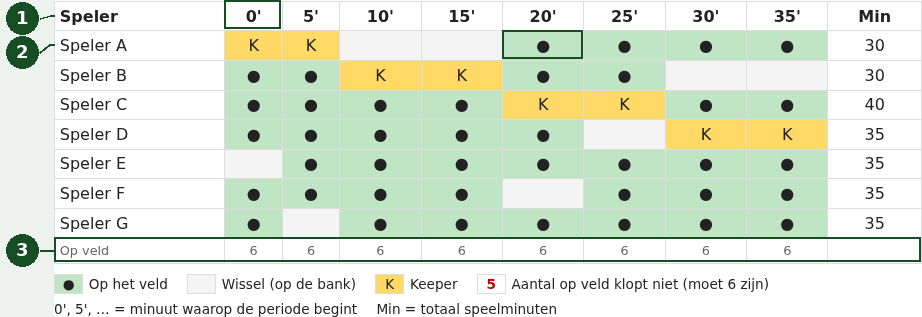
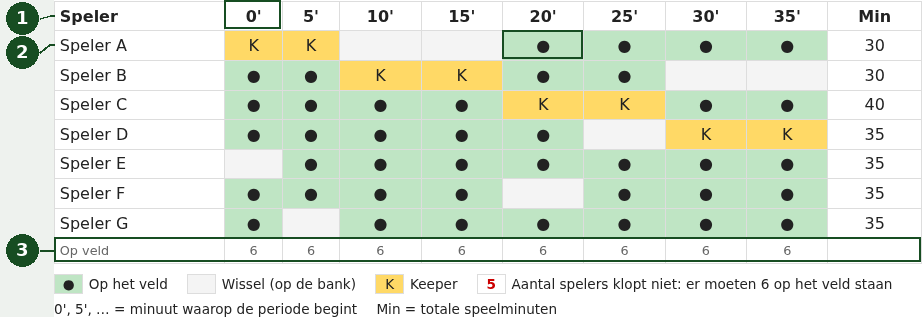
docs: humanize Dutch app and manual copy

Changed region(s): [[0.6074, 0.8801, 0.9718, 0.9369], [0.4859, 0.9653, 0.5163, 0.9937]]

diff --git a/uitleg.html b/uitleg.html
@@ -3,7 +3,7 @@
 <head>
 <meta charset="utf-8">
 <meta name="viewport" content="width=device-width, initial-scale=1">
-<title>Uitleg – Wisselschema</title>
+<title>Uitleg: Wisselschema</title>
 <style>
   body { font-family: system-ui, sans-serif; max-width: 900px; margin: 0 auto; padding: 1rem; background: #eef2ee; color: #222; line-height: 1.6; overflow-wrap: anywhere }
   h1 { font-size: 1.4rem } h2 { font-size: 1.1rem; margin-top: 0 }
@@ -29,24 +29,24 @@
 </header>
 <main>
 <div class="intro">
-<p>Maak een team, voeg spelers toe en bereid een wedstrijd voor. Hieronder zie je de echte app met uitsluitend verzonnen namen: <strong>Voorbeeldteam JO9, Speler A t/m H en Voorbeeldclub</strong>. De datum is een voorbeeld, geen geplande echte wedstrijd.</p>
-<p>De nummers in de afbeeldingen horen bij de aanwijzingen ernaast. Op een telefoon lees je eerst de tekst. <strong>Klik of tik op een afbeelding om die groter te openen</strong>; gebruik daarna de terugknop van je browser om verder te lezen.</p>
+<p>Maak een team, voeg spelers toe en bereid een wedstrijd voor. De afbeeldingen tonen de app met verzonnen namen: Voorbeeldteam JO9, Speler A t/m H en Voorbeeldclub. Ook de wedstrijddatum is een voorbeeld.</p>
+<p>De nummers in de afbeeldingen horen bij de stappen in de tekst. Lees op een telefoon eerst de tekst. Klik of tik op een afbeelding om die groter te openen. Met de terugknop van je browser kom je terug bij de uitleg.</p>
 <nav class="contents" aria-label="Stappen in deze uitleg">
 <a href="#stap-1">1. Team</a><a href="#stap-2">2. Spelers</a><a href="#stap-3">3. Wedstrijd</a><a href="#stap-4">4. Schema</a><a href="#stap-5">5. Opstelling</a><a href="#stap-6">6. Totalen en PDF</a><a href="#stap-7">7. Back-up en privacy</a>
 </nav>
 </div>
 <aside class="intro warning" aria-labelledby="bewaren">
-<h2 id="bewaren">Belangrijk: zelf bewaren en beschermen</h2>
+<h2 id="bewaren">Bewaar en bescherm je gegevens</h2>
 <p>Je gegevens staan in deze browser, niet in een account. <strong>Download regelmatig een back-up</strong>, zeker vóór je browsergegevens wist of een back-up terugzet. Terugzetten <strong>vervangt alle huidige gegevens</strong>. Lees <a href="#stap-7">stap 7 over opslag, privacy en back-ups</a> voordat je echte namen invoert.</p>
 </aside>
 <section id="stap-1">
 <h2>1. Maak een team en kies de categorie</h2>
 <ol>
 <li>Typ de teamnaam bij <strong>Nieuw team</strong>.</li>
-<li>Kies de categorie naast de naam en klik op <strong>Team aanmaken</strong>. De categorie bepaalt onder meer de speeltijd, het aantal spelers op het veld en de keeperblokken.</li>
+<li>Kies de categorie naast de naam en klik op <strong>Team aanmaken</strong>. De categorie bepaalt onder meer de speeltijd, het aantal spelers op het veld en wanneer de keeper kan wisselen.</li>
 <li>Het team staat nu in de keuzelijst bovenaan. Gebruik deze lijst om tussen teams te wisselen. De categorie ernaast kun je later wijzigen. Als je ook bestaande wedstrijden laat omzetten, worden hun schema’s opnieuw gemaakt.</li>
 </ol>
-<figure><a href="assets/manual/01-team.png"><img src="assets/manual/01-team.png" alt="Teamkaart: 1 nieuw team invullen, 2 categorie kiezen, 3 het aangemaakte voorbeeldteam selecteren."></a><figcaption>Een eigen team aanmaken; bovenaan kies je het actieve team. Open de afbeelding voor meer detail.</figcaption></figure>
+<figure><a href="assets/manual/01-team.png"><img src="assets/manual/01-team.png" alt="Teamkaart: 1 nieuw team invullen, 2 categorie kiezen, 3 het aangemaakte voorbeeldteam selecteren."></a><figcaption>Bovenaan kies je het team waarmee je werkt. Onderaan maak je een nieuw team aan.</figcaption></figure>
 </section>
 <section id="stap-2">
 <h2>2. Voeg je spelers toe</h2>
@@ -54,64 +54,64 @@
 <li>Typ een naam bij <strong>Naam</strong> en klik op <strong>Toevoegen</strong>. Herhaal dit voor alle spelers. Gebruik herkenbare, liefst korte namen.</li>
 <li>Controleer de namen boven het invoerveld. Het kruisje naast een naam verwijdert de speler na bevestiging. Controleer bestaande wedstrijden wanneer je de spelerslijst verandert.</li>
 </ol>
-<figure><a href="assets/manual/02-spelers.png"><img src="assets/manual/02-spelers.png" alt="Spelerskaart met acht fictieve spelers: 1 een naam toevoegen, 2 de toegevoegde namen controleren."></a><figcaption>Alleen verzonnen namen; neem geen namen uit dit voorbeeld over voor je eigen team.</figcaption></figure>
+<figure><a href="assets/manual/02-spelers.png"><img src="assets/manual/02-spelers.png" alt="Spelerskaart met acht verzonnen spelers: 1 een naam toevoegen, 2 de toegevoegde namen controleren."></a><figcaption>Voer de namen van je eigen spelers in. De namen in deze afbeelding zijn verzonnen.</figcaption></figure>
 </section>
 <section id="stap-3">
 <h2>3. Bereid een wedstrijd voor</h2>
 <p>Klik onder <strong>Wedstrijden</strong> op <strong>Nieuwe wedstrijd</strong>. De app maakt meteen een voorstel. Klik later op een wedstrijdknop om die wedstrijd weer te openen.</p>
 <ol>
-<li>Vul de datum en tegenstander in. Kies bij <strong>Wissel elke … min</strong> een passend wisselinterval.</li>
-<li>Controleer <strong>Aanwezig</strong> voor elke speler. Haal het vinkje weg bij afwezigheid; die speler doet niet mee in dit schema.</li>
-<li>Vink bij categorieën met keeper per keeperblok één aanwezige speler aan. De kolom toont de startminuut van het blok. Zonder vinkje gebruikt de app alleen veldspelers; bij een categorie zonder keeper zijn er geen keeperkolommen.</li>
-<li>Klik op <strong>Nieuw wisselvoorstel</strong> als je een nieuw voorstel wilt. Let op: wijzigen van aanwezigheid, keeper of wisselinterval maakt ook een nieuw schema en overschrijft handmatige wijzigingen. Controleer daarom eerst deze instellingen.</li>
+<li>Vul de datum en tegenstander in. Kies bij <strong>Wissel elke … min</strong> hoe vaak je wilt wisselen.</li>
+<li>Controleer bij elke speler het vinkje onder <strong>Aanwezig</strong>. Haal het weg als de speler afwezig is. Die speler doet dan niet mee in het schema.</li>
+<li>Kies bij categorieën met keeper voor elk blok één aanwezige speler als keeper. De kolom toont de startminuut van het blok. Zonder vinkje gebruikt de app alleen veldspelers; bij een categorie zonder keeper zijn er geen keeperkolommen.</li>
+<li>Klik op <strong>Nieuw wisselvoorstel</strong> als je een nieuw voorstel wilt. Als je de aanwezigheid, keeper of het wisselinterval wijzigt, maakt de app ook een nieuw schema. Je handmatige wijzigingen worden dan overschreven. Controleer deze instellingen dus vóór je het schema zelf aanpast.</li>
 </ol>
 <figure><a href="assets/manual/03-wedstrijd.png"><img src="assets/manual/03-wedstrijd.png" alt="Voorbeeldwedstrijd: 1 datum en tegenstander, 2 aanwezigheid, 3 uitleg keeperblokken, 4 nieuw wisselvoorstel."></a><figcaption>Speler H is afwezig; de keeper wisselt per blok. Stel dit in vóór handmatige aanpassingen.</figcaption></figure>
 </section>
 <section id="stap-4">
 <h2>4. Lees en controleer het schema</h2>
 <ol>
-<li>Een kolom zoals <strong>0′ of 5′</strong> is het begin van een periode. <strong>Min</strong> rechts toont de totale speelminuten in deze wedstrijd.</li>
+<li>De kop van een kolom, bijvoorbeeld <strong>0′ of 5′</strong>, geeft aan wanneer die periode begint. <strong>Min</strong> rechts toont de totale speelminuten in deze wedstrijd.</li>
 <li><strong>Groen met ●</strong> betekent op het veld; een <strong>leeg lichtgrijs vakje</strong> betekent wisselbank; <strong>geel met K</strong> betekent keeper. Klik op een groen of grijs vakje om die speler in die periode uit of in te zetten. Een keepervakje wijzig je via de keeperkeuze boven het schema, niet door erop te klikken.</li>
 <li>Controleer de rij <strong>Op veld</strong>. Een rood getal betekent dat er te veel of te weinig spelers staan. Zet bij een handmatige wissel één speler uit én een andere in, zodat het aantal weer klopt. Bekijk ook de legenda onder de tabel en <strong>Eerste wissels</strong> boven het schema.</li>
 </ol>
-<p>Een voorstel is een hulpmiddel, geen garantie dat alle keuzes passen bij je wedstrijd. Controleer het zelf. Op een smal scherm kun je de tabel binnen de kaart horizontaal schuiven.</p>
+<p>Controleer elk voorstel zelf: de keuzes van de app passen niet altijd bij je wedstrijd. Op een smal scherm kun je de tabel binnen de kaart horizontaal schuiven.</p>
 <figure><a href="assets/manual/04-schema.png"><img src="assets/manual/04-schema.png" alt="Wisseltabel: 1 startminuten van periodes, 2 groene veldvakjes naast lege bankvakjes en gele K, 3 aantal op veld."></a><figcaption>Voorbeeld na een handmatige wissel: zeven aanwezigen, zes spelers per periode op het veld.</figcaption></figure>
 </section>
 <section id="stap-5">
-<h2>5. Bekijk en versleep de opstelling</h2>
+<h2>5. Bekijk en wijzig de opstelling</h2>
 <ol>
 <li>Kies boven het veld de periode, bijvoorbeeld <strong>5′</strong>. De donkere knop is de gekozen periode.</li>
 <li>Sleep een speler met de muis of je vinger naar een plek op het veld. De gele speler is de keeper.</li>
 <li>Sleep tussen het veld en de grijze <strong>Wissels</strong>-bank om iemand uit of in te zetten voor deze periode. Wissel ook een andere speler en controleer daarna <strong>Op veld</strong> in de tabel. De keeper kan op het veld worden verplaatst, maar niet naar de bank worden gesleept.</li>
 </ol>
 <p>Je hoeft niet te slepen om een wissel te wijzigen: je kunt daarvoor ook de groene en grijze vakjes in de tabel gebruiken. Een plek verschuiven op het veld verandert op zichzelf geen speelminuten.</p>
-<figure><a href="assets/manual/05-opstelling.png"><img src="assets/manual/05-opstelling.png" alt="Opstelling bij minuut 5: 1 periodeknoppen, 2 veld met fictieve spelers en gele keeper, 3 grijze wisselbank."></a><figcaption>De echte app na het kiezen van 5′ en het verslepen van een veldspeler.</figcaption></figure>
+<figure><a href="assets/manual/05-opstelling.png"><img src="assets/manual/05-opstelling.png" alt="Opstelling bij minuut 5: 1 periodeknoppen, 2 veld met verzonnen spelers en gele keeper, 3 grijze wisselbank."></a><figcaption>Hier is de periode vanaf 5′ gekozen en een veldspeler naar een andere plek gesleept.</figcaption></figure>
 </section>
 <section id="stap-6">
 <h2>6. Bekijk totalen en print of bewaar als PDF</h2>
 <ol>
 <li>Onder <strong>Totalen (alle wedstrijden)</strong> zie je per speler het aantal wedstrijden, de speelminuten en het gemiddelde (<strong>Gem.</strong>) voor het gekozen team.</li>
-<li><strong>Eerste wissel</strong> telt hoe vaak iemand op de bank begint; <strong>Keeper min</strong> telt de keeperminuten. Deze totalen volgen de opgeslagen schema’s, niet een aparte registratie van wat werkelijk is gespeeld.</li>
+<li><strong>Eerste wissel</strong> telt hoe vaak iemand op de bank begint; <strong>Keeper min</strong> telt de keeperminuten. De app berekent deze totalen uit de opgeslagen schema’s. Hij houdt niet apart bij hoeveel minuten er werkelijk zijn gespeeld.</li>
 </ol>
-<p>Open de gewenste wedstrijd en klik boven de wisseltabel op <strong>Printen / PDF</strong> (zie stap 3). Je browser opent het printvenster. Kies je printer, of <strong>Opslaan als PDF</strong> als je browser die optie biedt. Controleer het voorbeeld, de pagina’s en zo nodig achtergrondkleuren vóór je opslaat of print. De printversie bevat de beginopstelling, het schema en de wisselmomenten, niet de interactieve veldkaart.</p>
+<p>Open de gewenste wedstrijd en klik boven de wisseltabel op <strong>Printen / PDF</strong> (zie stap 3). Je browser opent het printvenster. Kies je printer, of <strong>Opslaan als PDF</strong> als je browser die optie biedt. Controleer het afdrukvoorbeeld en de pagina’s vóór je opslaat of print. Kijk zo nodig ook of de achtergrondkleuren worden afgedrukt. De printversie bevat de beginopstelling, het schema en de wisselmomenten, niet de interactieve veldkaart.</p>
 <p><strong>Een PDF is geen herstelbare back-up.</strong> Gebruik daarvoor het JSON-bestand uit stap 7. Een PDF kan namen en wedstrijdgegevens bevatten: deel hem alleen met de juiste mensen.</p>
-<figure><a href="assets/manual/06-totalen.png"><img src="assets/manual/06-totalen.png" alt="Totalen van de fictieve spelers: 1 speelminuten over wedstrijden, 2 eerste wissels en keeperminuten."></a><figcaption>De totalen veranderen mee wanneer je opgeslagen schema’s aanpast.</figcaption></figure>
+<figure><a href="assets/manual/06-totalen.png"><img src="assets/manual/06-totalen.png" alt="Totalen van de verzonnen spelers: 1 speelminuten over wedstrijden, 2 eerste wissels en keeperminuten."></a><figcaption>De totalen veranderen mee wanneer je opgeslagen schema’s aanpast.</figcaption></figure>
 </section>
 <section id="stap-7" class="warning">
-<h2>7. Bewaar een back-up en begrijp de privacy</h2>
+<h2>7. Back-ups en privacy</h2>
 <ol>
-<li>Klik onderaan op <strong>Back-up downloaden</strong>. Bewaar het gedownloade <strong>JSON</strong>-bestand op een veilige plek die je later terugvindt. Dit bevat de teams, spelers en wedstrijden. Doe dit regelmatig en vóór terugzetten, wissen of wisselen van apparaat.</li>
+<li>Klik onderaan op <strong>Back-up downloaden</strong>. Bewaar het gedownloade <strong>JSON</strong>-bestand op een veilige plek die je later terugvindt. Het bestand bevat je teams, spelers en wedstrijden. Maak regelmatig een back-up, ook voordat je gegevens wist, een back-up terugzet of een ander apparaat gaat gebruiken.</li>
 <li>Open de app in de gewenste browser of op het andere apparaat. Klik op <strong>Back-up terugzetten</strong>, kies je JSON-bestand en lees de bevestiging. <strong>Terugzetten vervangt alle huidige teams en wedstrijden in deze browser; het voegt ze niet samen.</strong> Annuleer als je eerst nog een back-up van de huidige gegevens moet maken.</li>
 </ol>
 <figure><a href="assets/manual/07-backup.png"><img src="assets/manual/07-backup.png" alt="Back-upkaart: 1 alle gegevens downloaden als JSON, 2 een bestand kiezen om de huidige gegevens te vervangen."></a><figcaption>Bewaar eerst een back-up van de huidige gegevens voordat je een andere terugzet.</figcaption></figure>
 <h3>Waar staan mijn gegevens?</h3>
 <ul>
 <li>De app bewaart teams, namen en wedstrijden automatisch in <strong>localStorage</strong>: opslag in jouw browser. De ingevoerde gegevens worden niet naar de app-server gestuurd. Er is <strong>geen account</strong> en geen automatische synchronisatie.</li>
-<li>Dit is <strong>niet versleuteld</strong> als een beveiligde kluis. Anderen met toegang tot dezelfde browser kunnen de gegevens bekijken. Gebruik geen gedeelde browser voor gegevens die anderen niet mogen zien.</li>
+<li>Deze opslag is <strong>niet versleuteld</strong> en is geen beveiligde kluis. Anderen met toegang tot dezelfde browser kunnen de gegevens bekijken. Gebruik geen gedeelde browser voor gegevens die anderen niet mogen zien.</li>
 <li>Het wissen van site- of browsergegevens kan alles verwijderen. In <strong>privémodus</strong> kan de opslag verdwijnen zodra je het privévenster sluit. Vertrouw niet alleen op automatische browseropslag.</li>
-<li>Een andere browser, een ander apparaat of een ander webadres heeft aparte opslag. Bij een webadres tellen <strong>protocol</strong> (http/https), domein en poort mee. Je gegevens verschijnen daar niet vanzelf: zet zo nodig je back-up terug.</li>
-<li><strong>JSON-back-ups en PDF’s bevatten mogelijk persoonsgegevens.</strong> Bescherm ze, beperk toegang en deel ze zorgvuldig. Een PDF terugzetten kan niet; een JSON-back-up wel.</li>
-<li>De hosting kan normale toegangsgegevens loggen wanneer je de site bezoekt. Lokale opslag betekent dus niet dat er helemaal geen bezoekgegevens worden verwerkt.</li>
+<li>Elke browser en elk apparaat heeft aparte opslag. Dat geldt ook als je de app op een ander webadres opent. Bij een webadres tellen <strong>protocol</strong> (http/https), domein en poort mee. Je gegevens verschijnen daar niet vanzelf: zet zo nodig je back-up terug.</li>
+<li><strong>JSON-back-ups en PDF’s bevatten mogelijk persoonsgegevens.</strong> Bewaar ze op een veilige plek en deel ze alleen met mensen die deze gegevens nodig hebben. Een PDF terugzetten kan niet; een JSON-back-up wel.</li>
+<li>De hosting kan normale toegangsgegevens loggen wanneer je de site bezoekt. Die bezoekgegevens staan los van de teams, namen en wedstrijden die de app in je browser bewaart.</li>
 </ul>
 </section>
 </main>

diff --git a/index.html b/index.html
@@ -89,7 +89,7 @@
   <div class="row"><button id="gen">Nieuw wisselvoorstel</button> <button class="alt" id="printBtn">Printen / PDF</button> <button class="alt" id="delMatch">Verwijder wedstrijd</button></div>
   <p id="firstBench"></p>
   <div id="schedule"></div>
-  <p><small>Klik op een vakje om een speler handmatig in of uit te zetten.</small></p>
+  <p><small>Klik op een groen of grijs vakje om een speler in of uit te zetten.</small></p>
 </section>
 
 <section id="boardSec" hidden>
@@ -99,7 +99,7 @@
     <div id="pitch"><div class="mid"></div><div class="circle"></div><div class="box top"></div><div class="box bottom"></div></div>
     <div id="bench"><span>Wissels</span></div>
   </div>
-  <p><small>Sleep spelers over het veld, of tussen veld en wisselbank (past het schema aan).</small></p>
+  <p><small>Sleep spelers naar een plek op het veld. Slepen tussen veld en wisselbank verandert het schema.</small></p>
 </section>
 
 <section class="needTeam">
@@ -113,7 +113,7 @@
     <button class="alt" id="export">Back-up downloaden</button>
     <button class="alt" id="importBtn">Back-up terugzetten</button><input type="file" id="import" accept=".json,application/json" hidden>
   </div>
-  <p><small>Gegevens staan alleen in deze browser. Download af en toe een back-up, of gebruik die om alles naar een ander apparaat over te zetten.</small></p>
+  <p><small>Je gegevens staan in deze browser. Download regelmatig een back-up. Daarmee kun je ze ook naar een andere browser of een ander apparaat overzetten. Terugzetten vervangt de huidige gegevens.</small></p>
 </section>
 
 <div id="printOut"></div>
@@ -162,7 +162,7 @@ function render() {
   document.querySelectorAll('.needTeam').forEach(s => s.hidden = !team());
   $('#teamCat').innerHTML = catOptions(team()?.cat ?? 'JO9');
   $('#players').innerHTML = players().map(p =>
-    `<span class="chip">${esc(p.name)}<button data-del="${p.id}" title="Verwijder">×</button></span>`).join('') || 'Nog geen spelers.';
+    `<span class="chip">${esc(p.name)}<button data-del="${p.id}" title="Verwijder speler">×</button></span>`).join('') || 'Nog geen spelers.';
   $('#matches').innerHTML = sorted().map(m =>
     `<button class="${m.id === cur ? '' : 'alt'}" data-m="${m.id}">${esc(m.date)} ${esc(m.opponent)}</button>`).join('');
   renderStats();
@@ -178,7 +178,7 @@ function renderMatch(m) {
   $('#mInt').innerHTML = intervals(c).map(x => `<option value="${x}" ${x === m.interval ? 'selected' : ''}>${fmt(x)}</option>`).join('');
   $('#mCat').textContent = `Categorie: ${c.label} (${c.field} spelers in het veld${c.keeper ? ', inclusief keeper' : ''})`;
   $('#keeperHint').textContent = c.keeper
-    ? `Vink per blok van ${fmt(c.block)} min (tot de time-out of rust) de keeper aan. Geen keeper aangevinkt = ${c.field} veldspelers.` : '';
+    ? `Kies per blok van ${fmt(c.block)} min een keeper. Een blok loopt tot de time-out of rust. Zonder keeper staan er ${c.field} veldspelers.` : '';
   $('#mPlayers').innerHTML = '<table><tr><th>Speler</th><th>Aanwezig</th>' +
     m.keepers.map((_, q) => `<th>${q ? '' : 'Keeper '}${fmt(q * c.block)}'</th>`).join('') + '</tr>' +
     players().map(p => { const here = m.present.includes(p.id);
@@ -191,8 +191,8 @@ function renderMatch(m) {
 }
 
 const legend = m => `<div class="legend"><span><i class="on">●</i> Op het veld</span><span><i class="off">&nbsp;</i> Wissel (op de bank)</span>` +
-  `<span><i class="k">K</i> Keeper</span><span><i class="bad">5</i> Aantal op veld klopt niet (moet ${cat(m).field} zijn)</span>` +
-  `<span>0', ${fmt(m.interval)}', … = minuut waarop de periode begint</span><span>Min = totaal speelminuten</span></div>`;
+  `<span><i class="k">K</i> Keeper</span><span><i class="bad">5</i> Aantal spelers klopt niet: er moeten ${cat(m).field} op het veld staan</span>` +
+  `<span>0', ${fmt(m.interval)}', … = minuut waarop de periode begint</span><span>Min = totale speelminuten</span></div>`;
 
 function scheduleTable(m) {
   if (!m.slots.length) return '';
@@ -220,7 +220,7 @@ function renderPrint(m) {
     return `<tr><td>${fmt(i * m.interval)}'</td><td>${esc(list(inn))}</td><td>${esc(list(out))}</td>` +
       `<td>${k !== m.keeperBySlot[j] ? esc(k ? name(k) : 'geen keeper') : ''}</td></tr>`;
   }).join('');
-  $('#printOut').innerHTML = `<h1>${esc(team()?.name ?? '')}${m.opponent ? ' – ' + esc(m.opponent) : ''}</h1>` +
+  $('#printOut').innerHTML = `<h1>${esc(team()?.name ?? '')}${m.opponent ? ' tegen ' + esc(m.opponent) : ''}</h1>` +
     `<p>${esc(date)} · ${cat(m).label} · wissel elke ${fmt(m.interval)} min</p>` +
     `<h2>Beginopstelling</h2><p><b>Keeper:</b> ${esc(k0 ? name(k0) : 'geen')}<br>` +
     `<b>Veld:</b> ${esc(list(on0.filter(id => id !== k0)))}<br><b>Wissels:</b> ${esc(list(m.present.filter(id => !on0.includes(id))))}</p>` +
@@ -286,7 +286,7 @@ $('#teamSel').onchange = e => { db.team = e.target.value; cur = null; render(); 
 $('#teamCat').onchange = e => {
   const k = e.target.value, old = sorted().filter(m => cat(m) !== CATS[k]);
   team().cat = k;
-  if (old.length && confirm(`Ook de ${old.length} bestaande wedstrijd(en) omzetten naar ${k}? Hun wisselschema wordt opnieuw gemaakt.`))
+  if (old.length && confirm(`Ook bestaande wedstrijden (${old.length}) omzetten naar ${k}? De app maakt hun wisselschema’s opnieuw.`))
     old.forEach(m => { setCat(m, k); generate(m, history(m)); });
   render();
 };
@@ -356,7 +356,7 @@ $('#import').onchange = async e => {
   let data;
   try { data = JSON.parse(await file.text()); } catch { data = null; }
   if (!Array.isArray(data?.teams) || !Array.isArray(data?.matches)) { alert('Dit is geen geldig back-upbestand.'); return; }
-  if (!confirm(`Back-up met ${data.teams.length} team(s) en ${data.matches.length} wedstrijd(en) terugzetten? De huidige gegevens worden vervangen.`)) return;
+  if (!confirm(`Deze back-up terugzetten? Aantal teams: ${data.teams.length}. Aantal wedstrijden: ${data.matches.length}. Dit vervangt alle huidige teams en wedstrijden in deze browser.`)) return;
   db = data; db.team ??= db.teams[0]?.id; cur = null;
   render();
 };

diff --git a/copy.test.js b/copy.test.js
@@ -1,0 +1,40 @@
+// Exercise the real restore handler: losing scope or cancellation must fail.
+const { test } = require('node:test');
+const assert = require('node:assert/strict');
+const fs = require('node:fs');
+const vm = require('node:vm');
+function app(accept) {
+  const nodes = new Map();
+  const node = selector => {
+    if (!nodes.has(selector)) nodes.set(selector, { innerHTML: '', value: '', style: {}, append() {} });
+    return nodes.get(selector);
+  };
+  const initial = { teams: [{ id: 'old', name: 'Fictional old team', players: [] }], matches: [], team: 'old' };
+  let stored = JSON.stringify(initial);
+  const prompts = [];
+  const context = vm.createContext({
+    document: { querySelector: node, querySelectorAll: () => [] },
+    localStorage: { getItem: () => stored, setItem: (_, value) => { stored = value; } },
+    confirm: message => { prompts.push(message); return accept; },
+    alert: () => {}, window: {},
+  });
+  vm.runInContext(fs.readFileSync('schedule.js', 'utf8'), context);
+  const script = fs.readFileSync('index.html', 'utf8').match(/<script>([\s\S]*?)<\/script>/)[1];
+  vm.runInContext(script, context);
+  return { node, prompts, stored: () => JSON.parse(stored), initial };
+}
+test('restore explains that all current teams and matches in this browser are replaced before cancellation', async () => {
+  const runtime = app(false);
+  const replacement = { teams: [], matches: [] };
+  await runtime.node('#import').onchange({ target: { files: [{ text: async () => JSON.stringify(replacement) }], value: 'backup.json' } });
+  assert.equal(runtime.prompts.length, 1);
+  assert.match(runtime.prompts[0], /alle huidige teams en wedstrijden in deze browser/i);
+  assert.match(runtime.prompts[0], /vervang/i);
+  assert.deepEqual(runtime.stored(), runtime.initial);
+});
+test('accepted restore replaces records instead of merging old teams', async () => {
+  const runtime = app(true);
+  const replacement = { teams: [{ id: 'new', name: 'Fictional new team', players: [] }], matches: [] };
+  await runtime.node('#import').onchange({ target: { files: [{ text: async () => JSON.stringify(replacement) }], value: 'backup.json' } });
+  assert.deepEqual(runtime.stored(), { ...replacement, team: 'new' });
+});

diff --git a/schedule.js b/schedule.js
@@ -1,13 +1,13 @@
 // Wisselschema-logica. Werkt in de browser (globals) en in Node (tests).
 // KNVB-wedstrijdvormen seizoen 2026/'27. Een blok loopt tot de time-out of rust; de keeper wisselt alleen op een blokgrens.
 const CATS = {
-  JO7:  { field: 4, keeper: false, blocks: 6, block: 7.5,  label: 'JO7 – 4 tegen 4, 3 x 15 min, geen keeper' },
-  JO8:  { field: 6, keeper: true,  blocks: 4, block: 10,   label: 'JO8 – 6 tegen 6, 2 x 20 min' },
-  JO9:  { field: 6, keeper: true,  blocks: 4, block: 10,   label: 'JO9 – 6 tegen 6, 2 x 20 min' },
-  JO10: { field: 6, keeper: true,  blocks: 4, block: 12.5, label: 'JO10 – 6 tegen 6, 2 x 25 min' },
-  JO11: { field: 8, keeper: true,  blocks: 4, block: 15,   label: 'JO11 – 8 tegen 8, 2 x 30 min' },
-  MO11: { field: 8, keeper: true,  blocks: 4, block: 15,   label: 'MO11 – 8 tegen 8, 2 x 30 min' },
-  JO12: { field: 8, keeper: true,  blocks: 4, block: 15,   label: 'JO12 – 8 tegen 8, 2 x 30 min' },
+  JO7:  { field: 4, keeper: false, blocks: 6, block: 7.5,  label: 'JO7: 4 tegen 4, 3 x 15 min, geen keeper' },
+  JO8:  { field: 6, keeper: true,  blocks: 4, block: 10,   label: 'JO8: 6 tegen 6, 2 x 20 min' },
+  JO9:  { field: 6, keeper: true,  blocks: 4, block: 10,   label: 'JO9: 6 tegen 6, 2 x 20 min' },
+  JO10: { field: 6, keeper: true,  blocks: 4, block: 12.5, label: 'JO10: 6 tegen 6, 2 x 25 min' },
+  JO11: { field: 8, keeper: true,  blocks: 4, block: 15,   label: 'JO11: 8 tegen 8, 2 x 30 min' },
+  MO11: { field: 8, keeper: true,  blocks: 4, block: 15,   label: 'MO11: 8 tegen 8, 2 x 30 min' },
+  JO12: { field: 8, keeper: true,  blocks: 4, block: 15,   label: 'JO12: 8 tegen 8, 2 x 30 min' },
 };
 const cat = m => CATS[m.cat] || CATS.JO9;
 const intervals = c => [c.block / 2, c.block]; // wisselen per half blok of per blok

diff --git a/docs/copy-review.md b/docs/copy-review.md
@@ -1,0 +1,34 @@
+# Dutch copy review
+
+This editorial pass covers all shipped app and manual text. The Humanizer workflow and pattern catalog were applied to the complete text before selecting edits: mark, draft, check factual meaning, then write the final version. Short labels that already work remain unchanged.
+
+## Inventory coverage
+
+| Surface | Review scope |
+| --- | --- |
+| `index.html`, static HTML | Page title, navigation, section headings, buttons, placeholders, category titles, instructions and backup guidance: 25 text nodes and 6 text attributes. |
+| `index.html`, inline script | All 271 string literals and template segments were inventoried, including selectors and markup that must stay unchanged. User-facing content includes empty states, migration team name, player deletion title, category/keeper guidance, table headings, legends, first substitutes, statistics, category conversion, deletion and restore confirmations, invalid-backup alert and the generated print/PDF document. |
+| `schedule.js` | All seven category display labels; category identifiers, player counts, durations, keeper settings and scheduling logic are unchanged. |
+| `uitleg.html` | The entire manual: title, navigation, introduction, warnings, seven numbered sections, seven captions, seven image descriptions and return links. The final page has 134 text nodes and 8 text attributes. |
+| Manual screenshots | All seven regenerated from the actual app with the existing fictional fixture. Five changed: `01-team.png`, `03-wedstrijd.png`, `04-schema.png`, `05-opstelling.png`, `07-backup.png`. Player and totals captures remain byte-identical to main. |
+
+Key button and table terms remain consistent across app, manual and screenshots, including Team aanmaken, Toevoegen, Nieuwe wedstrijd, Nieuw wisselvoorstel, Printen / PDF, Op veld, Eerste wissels, Gem., Keeper min, Back-up downloaden and Back-up terugzetten. README commands and deployment instructions are outside this app-copy pass and remain untouched. Maintenance documentation and test code stay English.
+
+## Meaning and behavior preserved
+
+- Category labels retain every supported game format and duration; no rules were changed or independently revalidated.
+- Changing attendance, keeper, interval or converted match category still regenerates proposals and can overwrite manual edits. Manual instructions retain that warning.
+- Field movement alone does not change playing time. Field-to-bench movement changes the schedule, and keeper cells are selected through keeper controls rather than table clicks.
+- Team data stays in browser-local `localStorage`, isolated by device, browser and origin (protocol, domain and port). There is no account or automatic synchronization, and entered app records are not uploaded to the app server.
+- Shared-browser access, unencrypted storage, clearing browser data and private-window storage loss remain explicit. Ordinary hosting access logs are distinguished from entered app data.
+- JSON backups contain team/player/match data; PDF exports may contain names and match details. Safe storage, limited access and careful sharing remain required. PDF is not a restorable backup.
+- Restore replaces all current teams and matches in this browser rather than merging them. The confirmation now states that scope directly, still shows backup counts, and cancellation leaves current data intact.
+
+## Verification
+
+- The full `node --test` run passes: 7 tests, 0 failures, including the existing scheduling suite. The clearer restore-scope test was observed failing against main before the copy edit. Accepted restore and cancellation exercise the real inline script in Node's VM.
+- JavaScript AST comparison after masking string values confirms identical program structure in the inline app script and `schedule.js`. Every changed string was reviewed separately; no identifiers, numeric settings, storage contracts, event handlers or selectors changed. Both pages' CSS is byte-identical to main.
+- Real Chromium interactions verify creation, presence/keeper selection, generation, paired cell editing, period selection, pointer drag, JSON download/restore, print output, keyboard navigation, all seven image links and return navigation.
+- App and manual have no document overflow at 1100x1000, 375x812 and 812x375. Manual text also fits at doubled text size. Desktop/mobile panels and the regenerated product images were inspected; small manual images deliberately open at full size.
+- All seven product captures are byte-identical across repeated runs with the seeded fictional fixture. No external requests or page errors occurred in the network-monitored acceptance run. The unconfigured favicon produces an existing local 404 in capture runs.
+- Temporary local servers are stopped after acceptance. There are no new runtime dependencies, workflow changes, Docker deployment or merge. GitHub has no Actions workflows; local evidence is not a CI claim.

diff --git a/docs/manual-maintenance.md b/docs/manual-maintenance.md
@@ -39,6 +39,7 @@ For updates, use fixed desktop viewport 1100×1000 and Dutch browser locale. See
 - Open each image, return, and follow the back link to the app. Returning to the app preserves localStorage but does not promise to reopen the previously selected match.
 - Monitor browser requests and page errors: all manual resources must stay on the local origin, with no external services or entered-data requests.
 - Exercise app creation, presence, keeper selection, generation, a paired cell edit, a pointer drag, JSON download and restore on fictional data. Restore must replace current data only after the existing confirmation. Verify PDF output from the existing print document.
-- Verify schedule.js, schedule.test.js, the inline app script and the storage key are unchanged.
+- Run `node --test` for the full suite, including restore cancellation and replacement coverage in `copy.test.js`.
+- For copy-only updates, preserve scheduling logic, category numbers, selectors, storage keys and backup contracts. Compare JavaScript structure independently of user-facing string values; review every changed string separately. Regenerate screenshots when visible app text changes, and repeat captures to check determinism.
 
 This repository has no configured GitHub Actions workflows at implementation time. Local tests are evidence, not a claim of CI success. Docker COPY coverage is a static contract; a real container build still requires an available daemon.
